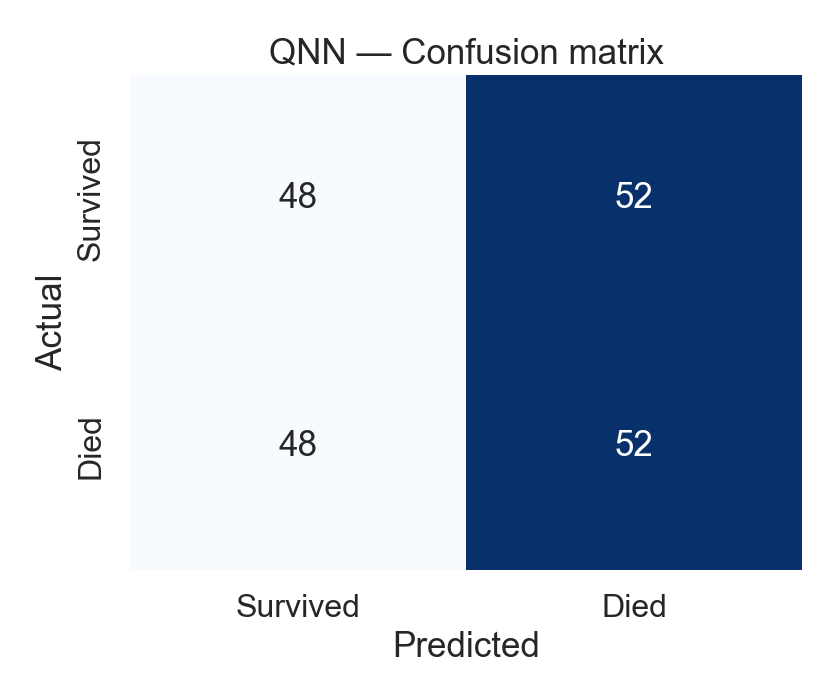
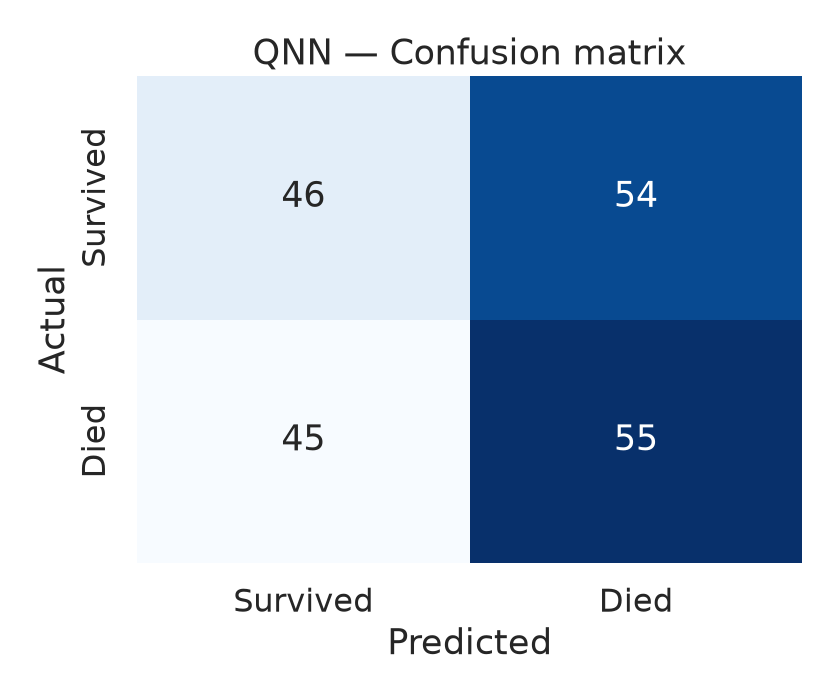
Regenerate VQC and QNN results with the seeded models
The committed VQC and QNN rows came from an unseeded run and could not be
reproduced (a default rerun gave VQC 0.545 and QNN 0.465 instead of 0.540
and 0.506). With the seeding fix they are deterministic, so regenerate
that stage only, via `python scripts/train_vqc_qnn.py`, run_reports() and
update_readme_table.py / build_docs_tables.py (the `make bonus reports`
path), at 7be950a on Linux, Python 3.11.

- results.json: only the "bonus" section changes; the classical and qsvm
  sections (which reproduced bit for bit) are left as committed.
- VQC ROC-AUC 0.437 [0.353, 0.518], QNN 0.484 [0.399, 0.559]. Both CIs
  still include 0.5, so "every quantum model is at chance" still holds.
  Five seeded runs (two in the repo, one in an isolated copy, one through
  notebook 05, one on Python 3.12) gave identical metrics.
- Figures: VQC/QNN loss curves (now non-empty), VQC/QNN confusion
  matrices, and the five cross-model comparison charts.
- README and findings: regenerated tables, updated VQC/QNN numbers in the
  prose, a note that VQC/QNN train times come from a slower machine than
  the other rows, and the earlier 0.540/0.506 values reported as evidence
  of seed sensitivity.

Claude-Session: https://claude.ai/code/session_01PWSXcyEx8MpeCxMpwDRFHN

diff --git a/README.md b/README.md
@@ -259,7 +259,10 @@ Point metrics from a single split can be misleading on a subsampled test set
 > `python scripts/reproduce_all.py` on the **synthetic-fallback dataset**
 > (no Kaggle credentials). Real WiDS data was not run in this reproduction.
 > Brackets are 95% bootstrap CIs; the classical rows additionally have 5-fold
-> CV (see [Uncertainty estimates](#uncertainty-estimates)). See
+> CV (see [Uncertainty estimates](#uncertainty-estimates)). Train times are
+> wall-clock and machine-dependent: the VQC and QNN rows were regenerated on a
+> slower Linux machine after their seeding was fixed, while the other rows come
+> from the original run. See
 > [Honest findings](#honest-findings) for what these numbers do and do not show.
 
 <!-- BEGIN_RESULTS_TABLE -->
@@ -268,11 +271,11 @@ Point metrics from a single split can be misleading on a subsampled test set
 | Logistic Regression | classical | 0.810 | 0.651 | 0.817 [0.787, 0.845] | 0.578 | 0.460 | 0.01 |
 | Random Forest | classical | 0.808 | 0.646 | 0.792 [0.758, 0.824] | 0.540 | 0.451 | 0.54 |
 | SVM (RBF) | classical | 0.812 | 0.631 | 0.759 [0.721, 0.796] | 0.532 | 0.420 | 1.10 |
-| VQC | quantum | 0.520 | 0.520 | 0.540 [0.457, 0.616] | 0.567 | 0.556 | 77.50 |
 | QSVM (Pauli Z+XX) | quantum | 0.520 | 0.520 | 0.522 [0.440, 0.600] | 0.518 | 0.543 | 174.46 |
 | QSVM (ZZFeatureMap) | quantum | 0.535 | 0.535 | 0.513 [0.434, 0.590] | 0.518 | 0.551 | 104.08 |
 | QSVM (custom feature map) | quantum | 0.490 | 0.490 | 0.513 [0.437, 0.591] | 0.513 | 0.474 | 36.96 |
-| QNN (SamplerQNN) | quantum | 0.500 | 0.500 | 0.506 [0.425, 0.583] | 0.506 | 0.510 | 74.03 |
+| QNN (SamplerQNN) | quantum | 0.505 | 0.505 | 0.484 [0.399, 0.559] | 0.477 | 0.526 | 129.85 |
+| VQC | quantum | 0.450 | 0.450 | 0.437 [0.353, 0.518] | 0.459 | 0.476 | 132.97 |
 <!-- END_RESULTS_TABLE -->
 
 ### Key figures
@@ -296,9 +299,12 @@ kernel heatmaps.
 
 - **The quantum models are not distinguishable from random here.** On this
   synthetic benchmark at N = 200 and 6 qubits, every quantum model's 95%
-  bootstrap CI for ROC-AUC includes 0.5 (VQC 0.54 [0.46, 0.62], QSVM-Pauli
-  0.52 [0.44, 0.60], QSVM-ZZ 0.51 [0.43, 0.59], QSVM-custom 0.51 [0.44, 0.59],
-  QNN 0.51 [0.43, 0.58]). The honest statement is not "quantum is worse" but
+  bootstrap CI for ROC-AUC includes 0.5 (QSVM-Pauli 0.52 [0.44, 0.60], QSVM-ZZ
+  0.51 [0.43, 0.59], QSVM-custom 0.51 [0.44, 0.59], QNN 0.48 [0.40, 0.56],
+  VQC 0.44 [0.35, 0.52]). Before the VQC and QNN were seeded, an earlier
+  committed run gave VQC 0.54 and QNN 0.51, so their point estimates move by up
+  to 0.1 between seeds while staying inside chance-level CIs. The honest
+  statement is not "quantum is worse" but
   "quantum is indistinguishable from chance on this data" — exactly what the CIs
   are there to make testable.
 

diff --git a/docs/findings.md b/docs/findings.md
@@ -19,11 +19,11 @@ The table below is generated directly from `reports/results.json` by
 | Logistic Regression | classical | 0.810 | 0.651 | 0.817 [0.787, 0.845] | 0.578 | 0.460 | 0.01 |
 | Random Forest | classical | 0.808 | 0.646 | 0.792 [0.758, 0.824] | 0.540 | 0.451 | 0.54 |
 | SVM (RBF) | classical | 0.812 | 0.631 | 0.759 [0.721, 0.796] | 0.532 | 0.420 | 1.10 |
-| VQC | quantum | 0.520 | 0.520 | 0.540 [0.457, 0.616] | 0.567 | 0.556 | 77.50 |
 | QSVM (Pauli Z+XX) | quantum | 0.520 | 0.520 | 0.522 [0.440, 0.600] | 0.518 | 0.543 | 174.46 |
 | QSVM (ZZFeatureMap) | quantum | 0.535 | 0.535 | 0.513 [0.434, 0.590] | 0.518 | 0.551 | 104.08 |
 | QSVM (custom feature map) | quantum | 0.490 | 0.490 | 0.513 [0.437, 0.591] | 0.513 | 0.474 | 36.96 |
-| QNN (SamplerQNN) | quantum | 0.500 | 0.500 | 0.506 [0.425, 0.583] | 0.506 | 0.510 | 74.03 |
+| QNN (SamplerQNN) | quantum | 0.505 | 0.505 | 0.484 [0.399, 0.559] | 0.477 | 0.526 | 129.85 |
+| VQC | quantum | 0.450 | 0.450 | 0.437 [0.353, 0.518] | 0.459 | 0.476 | 132.97 |
 <!-- END_RESULTS_TABLE -->
 
 ROC-AUC is shown with its 95% bootstrap confidence interval. A model whose interval includes 0.5 is
@@ -34,8 +34,10 @@ statistically indistinguishable from a coin flip on this test set.
 ## Five honest takeaways
 
 1. **The quantum models are at chance.** Every quantum model's ROC-AUC confidence interval includes
-   0.5. The strongest is the VQC at 0.540 [0.457, 0.616]; the QSVM variants land at 0.513 to 0.522
-   and the QNN at 0.506 [0.425, 0.583]. None clears the bar for a learned signal.
+   0.5. The QSVM variants land at 0.513 to 0.522, the QNN at 0.484 [0.399, 0.559], and the VQC at
+   0.437 [0.353, 0.518]. None clears the bar for a learned signal. Before the VQC and QNN were
+   seeded, an earlier committed run gave them 0.540 and 0.506, so their point estimates move by up to
+   0.1 between seeds while their intervals keep covering 0.5.
 
 2. **The classical baselines have stable, real signal.** Logistic Regression reaches ROC-AUC 0.817
    [0.787, 0.845], and 5-fold cross-validation agrees closely (0.810 plus or minus 0.013), so the
